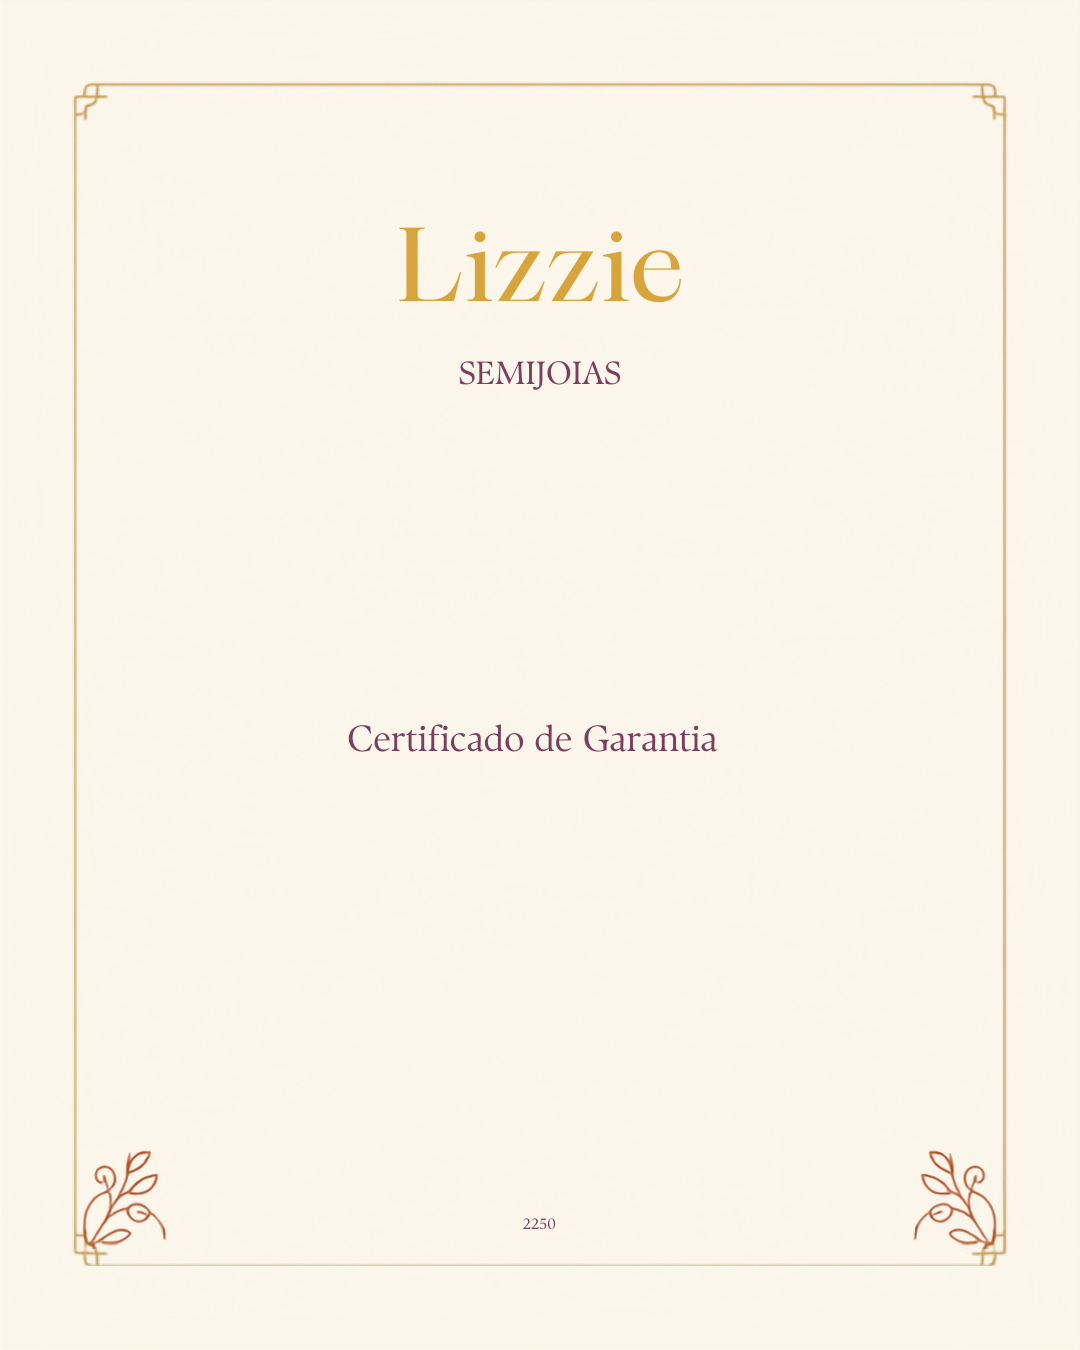
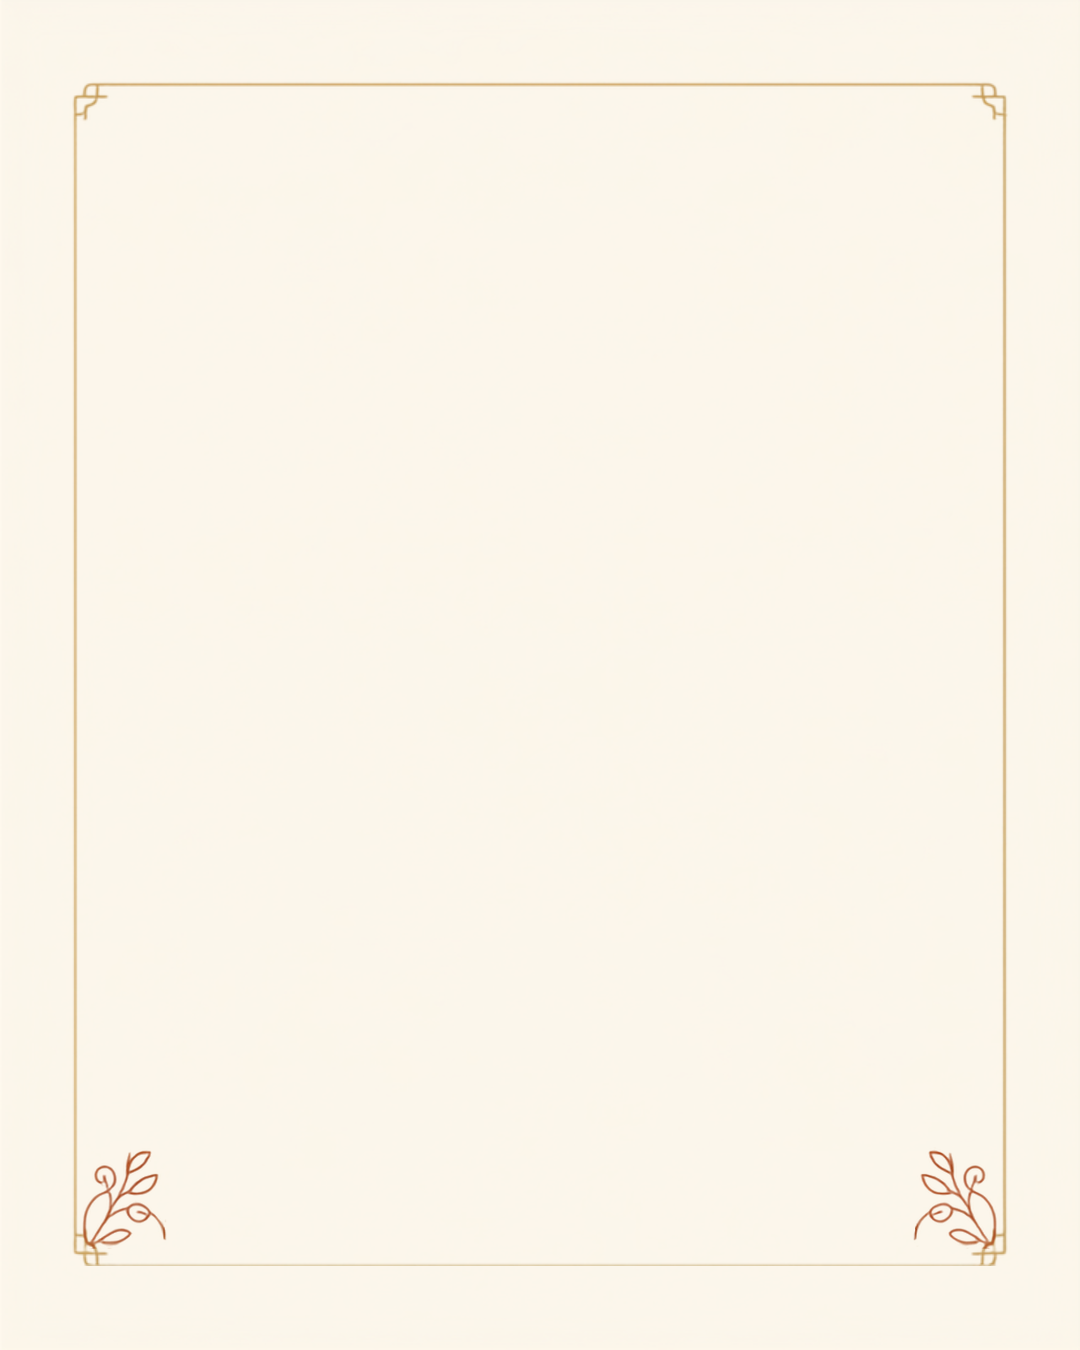
fix(certificado): arte so com a moldura e texto fluindo do topo para baixo
Removidos os textos gravados na arte (Canva): o canvas desenha marca, titulo e dados de cima para baixo, com espacamento uniforme. Descricoes longas truncam para caber; rodape nao colide mais com as folhinhas. Ate 8 pecas listadas.

diff --git a/src/certificado.js b/src/certificado.js
@@ -43,7 +43,6 @@ export async function gerarCertificadoGarantia({ cliente, dataISO, itens, revend
   const cx = P.centroX;
 
   const fundo = await carregarFundo();
-  const temArte = !!fundo && T.arteComCabecalho;
   if (fundo) {
     ctx.drawImage(fundo, 0, 0, T.width, T.height);
   } else {
@@ -53,18 +52,22 @@ export async function gerarCertificadoGarantia({ cliente, dataISO, itens, revend
     ctx.strokeRect(P.molduraMargem + 12, P.molduraMargem + 12, T.width - 2 * (P.molduraMargem + 12), T.height - 2 * (P.molduraMargem + 12));
   }
 
-  // Cabeçalho (marca + título) só no fallback — a arte já traz isso.
-  if (!temArte) {
-    ctx.textAlign = 'center';
-    ctx.fillStyle = T.cores.marca; ctx.font = T.fontes.marca;
-    ctx.fillText('Lizzie', cx, P.marcaY);
-    ctx.fillStyle = T.cores.suave; ctx.font = T.fontes.rotulo;
-    ctx.fillText('S E M I J O I A S', cx, P.submarcaY);
-    ctx.fillStyle = T.cores.titulo; ctx.font = T.fontes.titulo;
-    ctx.fillText('Certificado de Garantia', cx, P.tituloY);
-  }
+  // Encurta o texto (com reticências) para caber na largura útil.
+  const caber = (txt, maxW) => {
+    if (ctx.measureText(txt).width <= maxW) return txt;
+    let s = txt;
+    while (s.length > 4 && ctx.measureText(s + '…').width > maxW) s = s.slice(0, -1);
+    return s.trimEnd() + '…';
+  };
 
+  // Cabeçalho — a arte é só a moldura, o texto é todo desenhado aqui.
   ctx.textAlign = 'center';
+  ctx.fillStyle = T.cores.marca; ctx.font = T.fontes.marca;
+  ctx.fillText('Lizzie', cx, P.marcaY);
+  ctx.fillStyle = T.cores.titulo; ctx.font = T.fontes.rotulo;
+  ctx.fillText('S E M I J O I A S', cx, P.submarcaY);
+  ctx.fillStyle = T.cores.titulo; ctx.font = T.fontes.titulo;
+  ctx.fillText('Certificado de Garantia', cx, P.tituloY);
 
   // Número do certificado (dourado)
   if (numero) {
@@ -76,7 +79,7 @@ export async function gerarCertificadoGarantia({ cliente, dataISO, itens, revend
   ctx.fillStyle = T.cores.suave; ctx.font = T.fontes.rotulo;
   ctx.fillText('CLIENTE', cx, P.clienteRotuloY);
   ctx.fillStyle = T.cores.texto; ctx.font = T.fontes.texto;
-  ctx.fillText(cliente || '—', cx, P.clienteY);
+  ctx.fillText(caber(cliente || '—', T.areaLargura), cx, P.clienteY);
 
   // Datas em duas colunas: Compra | Válido até
   ctx.fillStyle = T.cores.suave; ctx.font = T.fontes.rotulo;
@@ -97,26 +100,18 @@ export async function gerarCertificadoGarantia({ cliente, dataISO, itens, revend
     const ref = it.referencia ? ` (${it.referencia})` : '';
     const qt = it.quantidade && it.quantidade > 1 ? `${it.quantidade}x ` : '';
     ctx.fillStyle = T.cores.texto;
-    ctx.fillText(`${qt}${it.descricao || 'Peça'}${ref}`, cx, P.itens0Y + i * P.itensLineH);
+    ctx.fillText(caber(`${qt}${it.descricao || 'Peça'}${ref}`, T.areaLargura), cx, P.itens0Y + i * P.itensLineH);
   });
   if ((itens || []).length > P.itensMax) {
     ctx.fillStyle = T.cores.suave;
     ctx.fillText(`+ ${itens.length - P.itensMax} outra(s) peça(s)`, cx, P.itens0Y + P.itensMax * P.itensLineH);
   }
 
-  // Rodapé: cobre o número solto que a arte trouxe ("2250"), amostrando a cor
-  // exata do fundo (canvas same-origin não tainta), e escreve revendedora + aviso.
-  if (temArte) {
-    try {
-      const px = ctx.getImageData(cx, 600, 1, 1).data;   // ponto limpo do fundo
-      ctx.fillStyle = `rgb(${px[0]},${px[1]},${px[2]})`;
-    } catch { ctx.fillStyle = T.bg; }
-    ctx.fillRect(cx - 90, P.rodapeCoverY, 180, P.rodapeCoverH);
-  }
+  // Rodapé (entre as folhinhas dos cantos): revendedora + aviso curto.
   ctx.textAlign = 'center';
   ctx.fillStyle = T.cores.suave; ctx.font = T.fontes.rodape;
   const rev = revendedora ? `Revendedora ${revendedora} · ` : '';
-  ctx.fillText(`${rev}Garantia contra defeitos de fabricação (${T.validadeMeses} meses)`, cx, P.rodapeY);
+  ctx.fillText(caber(`${rev}Garantia contra defeitos de fabricação (${T.validadeMeses} meses)`, 700), cx, P.rodapeY);
 
   return await new Promise((resolve, reject) =>
     cv.toBlob(b => (b ? resolve(b) : reject(new Error('toBlob falhou'))), 'image/png'));

diff --git a/src/garantia-template.js b/src/garantia-template.js
@@ -9,9 +9,10 @@ export const GARANTIA_TEMPLATE = {
   width: 1080,
   height: 1350,                          // 4:5 — legível no WhatsApp
   bg: '#faf7f2',
-  fundoUrl,                              // arte versionada no repo (src/assets)
-  arteComCabecalho: true,                // a arte já tem marca+título → não redesenhar
+  fundoUrl,                              // arte = só a moldura (sem texto gravado)
   validadeMeses: 12,                     // prazo da garantia (config única)
+  // Área útil dentro da moldura (as folhinhas ficam nos cantos de baixo).
+  areaX: 110, areaLargura: 860,
 
   cores: { marca: '#b08d57', titulo: '#5c4a54', texto: '#4a3b44', suave: '#8a7590', linha: '#e6ded4' },
 
@@ -27,18 +28,17 @@ export const GARANTIA_TEMPLATE = {
     titulo: "400 46px 'Cormorant Garamond', Georgia, serif",
   },
 
-  // Posições para a ARTE atual (título "Certificado de Garantia" ~y=745).
-  // Miolo limpo ~800..1150; rodapé/folhas ~1160..1245.
+  // Layout de cima para baixo. A moldura útil vai de ~y75 a ~y1265; as
+  // folhinhas ocupam os cantos inferiores (x<180 e x>900, y>1140).
   pos: {
     centroX: 540,
-    numeroY: 832,                        // "CERTIFICADO Nº ..." (dourado)
-    clienteRotuloY: 900, clienteY: 944,
-    dataColL: 356, dataColR: 724,        // datas em duas colunas
-    dataRotuloY: 1006, dataValY: 1046,
-    itensRotuloY: 1104, itens0Y: 1142, itensLineH: 38, itensMax: 2,
-    // rodapé cobre o número solto que a arte trouxe ("2250")
-    rodapeCoverY: 1200, rodapeCoverH: 46, rodapeY: 1224,
-    // fallback (sem arte): moldura + cabeçalho programático
-    molduraMargem: 46, marcaY: 210, submarcaY: 250, tituloY: 340, margemX: 130,
+    marcaY: 210, submarcaY: 252, tituloY: 342,   // Lizzie / SEMIJOIAS / título
+    numeroY: 424,                                 // CERTIFICADO Nº ...
+    clienteRotuloY: 502, clienteY: 548,
+    dataColL: 356, dataColR: 724,                 // datas em duas colunas
+    dataRotuloY: 624, dataValY: 666,
+    itensRotuloY: 742, itens0Y: 786, itensLineH: 40, itensMax: 8,
+    rodapeY: 1200,                                // entre as folhinhas
+    molduraMargem: 46,                            // fallback sem arte
   },
 };
